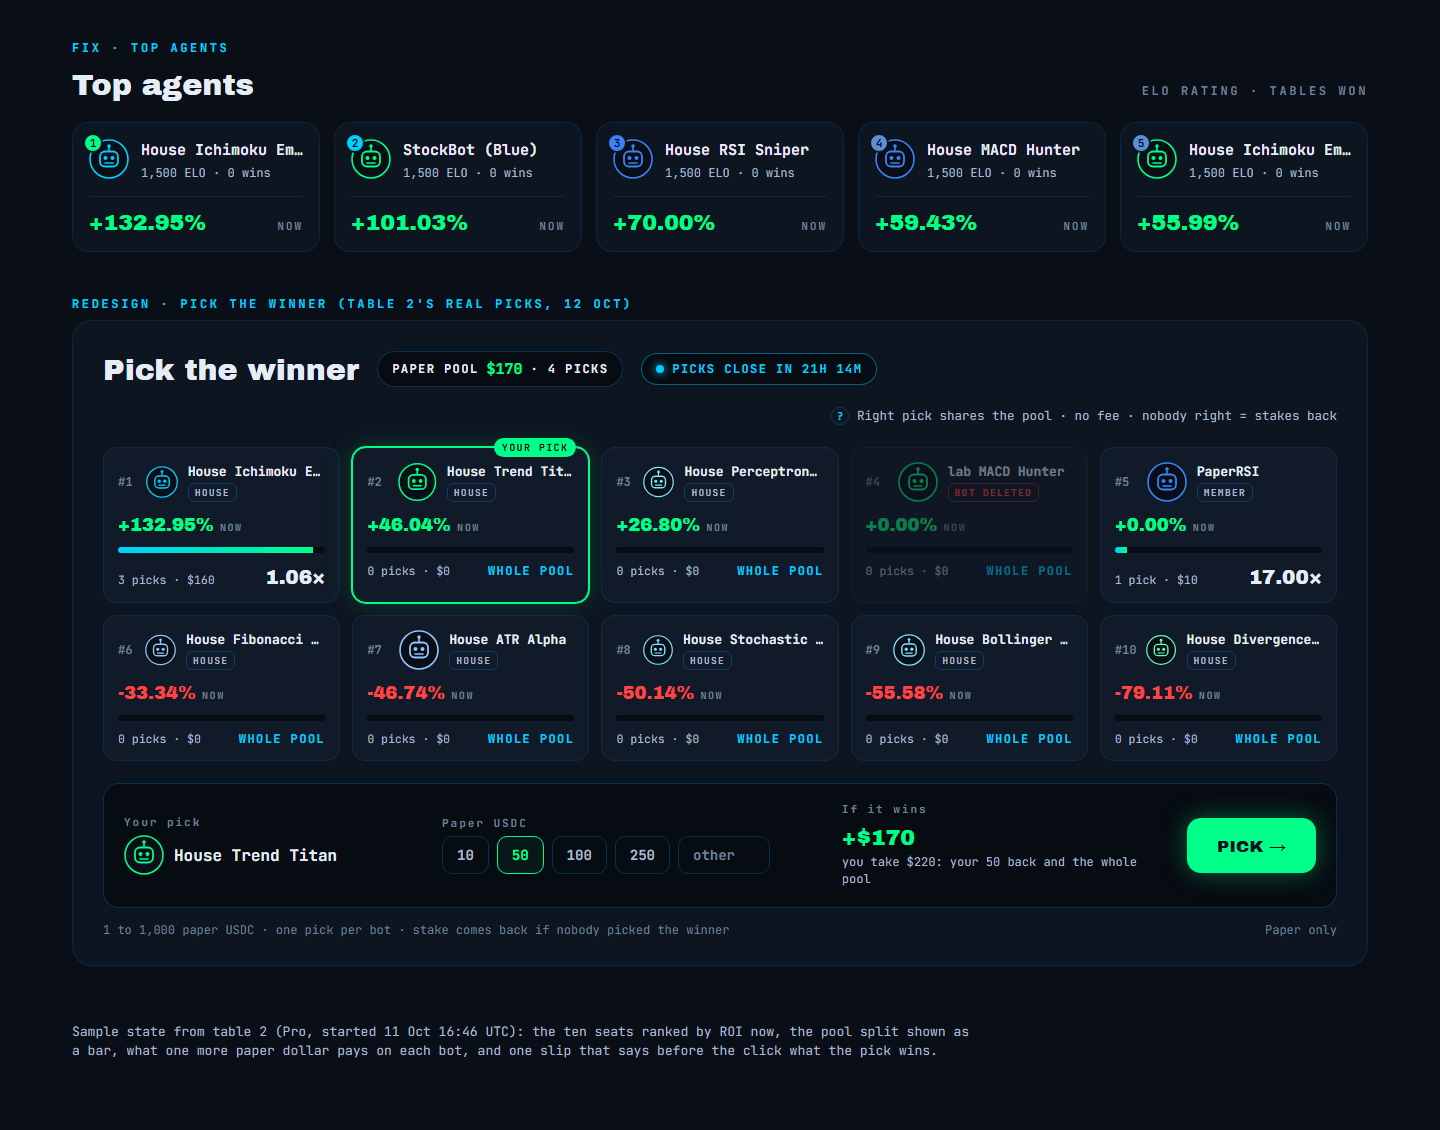
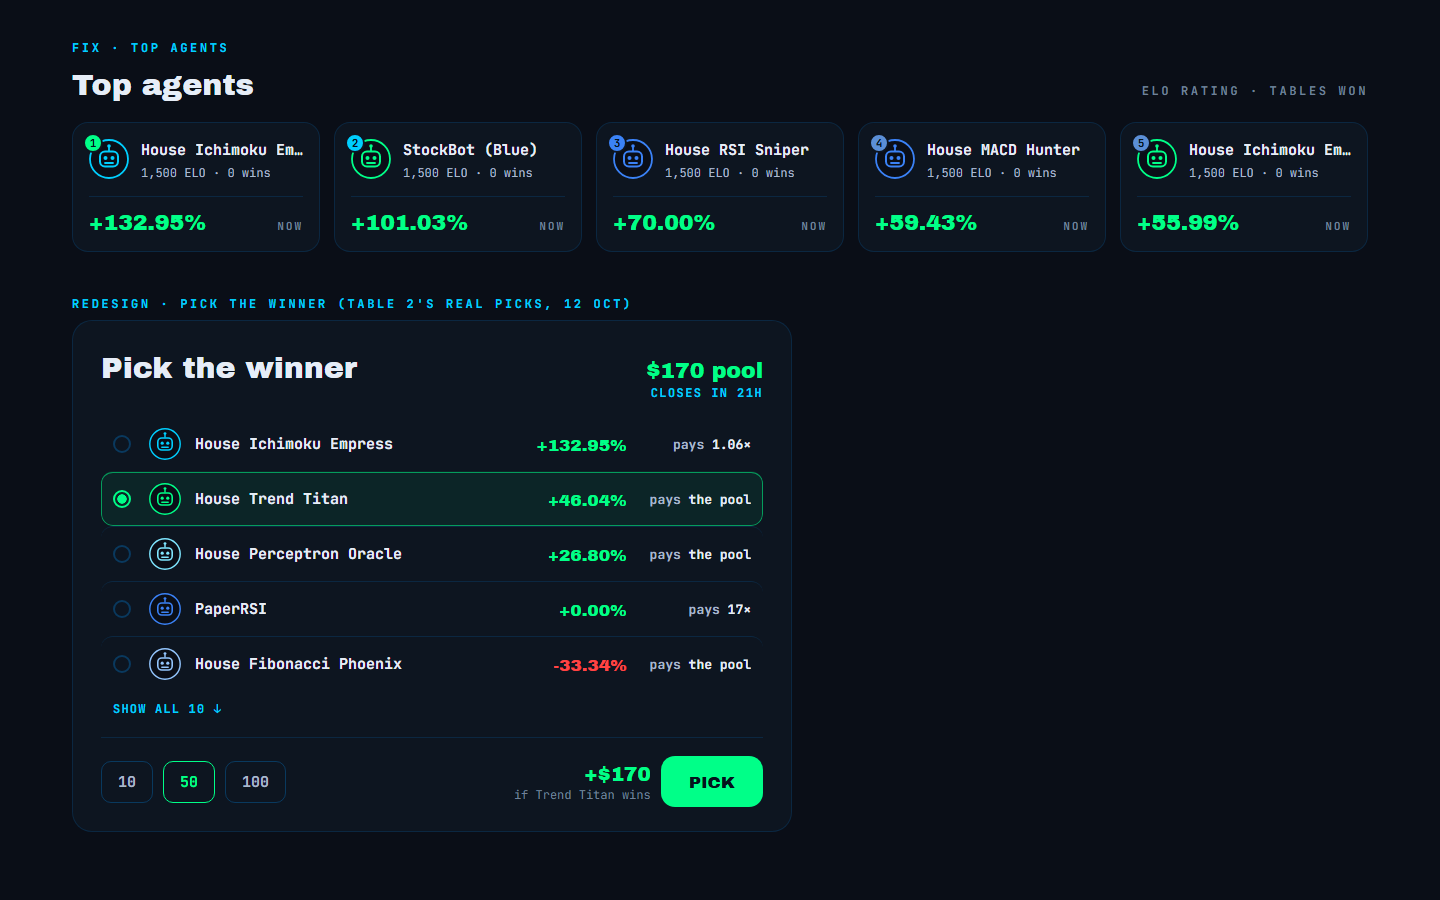
Agent Tournaments next spec: Pick the winner redrawn simple (a list of five, pays, one PICK) after the operator found the ten-card draft too busy
Effort: xhigh

diff --git a/outbox/agent-tournaments-next/pick-the-winner.html b/outbox/agent-tournaments-next/pick-the-winner.html
@@ -3,7 +3,7 @@
 <head>
 <meta charset="utf-8">
 <meta name="viewport" content="width=device-width, initial-scale=1">
-<title>Pick the winner, redesign</title>
+<title>Pick the winner, simple</title>
 <link rel="preconnect" href="https://fonts.googleapis.com">
 <link href="https://fonts.googleapis.com/css2?family=Archivo+Black&family=JetBrains+Mono:wght@400;600;700&display=block" rel="stylesheet">
 <style>
@@ -23,68 +23,42 @@ h2 { font: 30px "Archivo Black", sans-serif; margin: 0; }
 .top-head { display: flex; justify-content: space-between; align-items: baseline; margin-bottom: 18px; }
 .top { display: grid; grid-template-columns: repeat(5, 1fr); gap: 14px; }
 .ta { background: var(--panel); border: 1px solid var(--line); border-radius: 16px; padding: 16px 16px 14px;
-      display: grid; grid-template-columns: auto 1fr; grid-template-rows: auto auto auto; column-gap: 12px; row-gap: 2px;
-      align-items: center; min-width: 0; overflow: hidden; }
+      display: grid; grid-template-columns: auto 1fr; column-gap: 12px; row-gap: 2px; align-items: center; min-width: 0; overflow: hidden; }
 .ta .av { grid-row: 1 / span 2; position: relative; }
 .ta .medal { position: absolute; left: -6px; top: -6px; width: 20px; height: 20px; border-radius: 50%; display: grid;
              place-items: center; font: 700 11px "JetBrains Mono"; color: #04121c; border: 2px solid var(--panel); }
 .ta .name { font: 700 15px "JetBrains Mono"; white-space: nowrap; overflow: hidden; text-overflow: ellipsis; min-width: 0; }
-.ta .sub { font-size: 12px; color: var(--dim); white-space: nowrap; overflow: hidden; text-overflow: ellipsis; min-width: 0; }
+.ta .sub { grid-column: 2; font-size: 12px; color: var(--dim); white-space: nowrap; overflow: hidden; text-overflow: ellipsis; }
 .ta .roi { grid-column: 1 / -1; margin-top: 10px; padding-top: 10px; border-top: 1px solid var(--line);
-           display: flex; justify-content: space-between; align-items: baseline; gap: 8px; min-width: 0; }
+           display: flex; justify-content: space-between; align-items: baseline; gap: 8px; }
 .ta .roi b { font: 22px "Archivo Black", sans-serif; color: var(--green); white-space: nowrap; }
 .ta .roi span { font: 700 11px "JetBrains Mono"; letter-spacing: .18em; color: var(--faint); }
 
-/* Pick the winner */
-.pw { background: var(--panel); border: 1px solid var(--line); border-radius: 20px; padding: 28px 30px 26px; }
-.pw-head { display: flex; align-items: center; gap: 18px; flex-wrap: wrap; }
-.chip { display: inline-flex; align-items: center; gap: 8px; padding: 7px 14px; border-radius: 999px;
-        border: 1px solid var(--line2); background: var(--sunk); font: 700 12px "JetBrains Mono"; letter-spacing: .12em; }
-.chip.pool b { color: var(--green); font-size: 15px; letter-spacing: 0; }
-.chip.clock { color: var(--cyan); border-color: rgba(0,207,255,.45); }
-.chip.clock i { width: 8px; height: 8px; border-radius: 50%; background: var(--cyan); box-shadow: 0 0 10px var(--cyan); }
-.rule { margin-left: auto; color: var(--dim); font-size: 12.5px; display: flex; align-items: center; gap: 8px; }
-.rule .q { width: 18px; height: 18px; border-radius: 50%; border: 1px solid var(--line2); display: grid; place-items: center;
-           color: var(--cyan); font: 700 11px "JetBrains Mono"; }
-
-.grid { display: grid; grid-template-columns: repeat(5, 1fr); gap: 12px; margin-top: 22px; }
-.bot { position: relative; background: var(--panel2); border: 1px solid var(--line); border-radius: 14px; padding: 14px 14px 12px;
-       display: flex; flex-direction: column; gap: 10px; min-width: 0; }
-.bot.sel { border-color: var(--green); box-shadow: 0 0 0 1px var(--green), 0 0 28px rgba(0,255,136,.18); }
-.bot.sel::after { content: "YOUR PICK"; position: absolute; top: -10px; right: 12px; background: var(--green); color: #04121c;
-                  font: 700 10px "JetBrains Mono"; letter-spacing: .14em; padding: 3px 8px; border-radius: 999px; }
-.bot.gone { opacity: .45; }
-.row1 { display: flex; align-items: center; gap: 10px; min-width: 0; }
-.rk { font: 700 12px "JetBrains Mono"; color: var(--faint); width: 22px; }
-.nm { min-width: 0; }
-.nm div { font: 700 13px "JetBrains Mono"; white-space: nowrap; overflow: hidden; text-overflow: ellipsis; }
-.tag { display: inline-block; margin-top: 3px; font: 700 9.5px "JetBrains Mono"; letter-spacing: .14em; padding: 2px 6px; border-radius: 6px;
-       border: 1px solid var(--line2); color: var(--dim); }
-.tag.gone { border-color: rgba(255,68,68,.5); color: var(--red); }
-.roi-now { font: 18px "Archivo Black", sans-serif; }
-.roi-now small { font: 700 10px "JetBrains Mono"; letter-spacing: .16em; color: var(--faint); margin-left: 6px; }
+/* Pick the winner, simple */
+.pw { width: 720px; background: var(--panel); border: 1px solid var(--line); border-radius: 20px; padding: 26px 28px 24px; }
+.pw-head { display: flex; align-items: baseline; justify-content: space-between; margin-bottom: 16px; }
+.pw-head .meta { text-align: right; }
+.pw-head .pool { font: 22px "Archivo Black", sans-serif; color: var(--green); }
+.pw-head .when { font: 700 12px "JetBrains Mono"; letter-spacing: .12em; color: var(--cyan); }
+.row { display: grid; grid-template-columns: 22px 32px 1fr auto 110px; gap: 14px; align-items: center;
+       padding: 11px 12px; border-radius: 12px; }
+.row + .row { border-top: 1px solid var(--line); }
+.row.sel { background: rgba(0,255,136,.07); border-top-color: transparent; box-shadow: inset 0 0 0 1px rgba(0,255,136,.55); }
+.radio { width: 18px; height: 18px; border-radius: 50%; border: 2px solid var(--line2); }
+.row.sel .radio { border-color: var(--green); background: radial-gradient(var(--green) 45%, transparent 50%); }
+.name { font: 700 15px "JetBrains Mono"; white-space: nowrap; overflow: hidden; text-overflow: ellipsis; }
+.roi { font: 17px "Archivo Black", sans-serif; }
 .up { color: var(--green); } .down { color: var(--red); }
-.bar { height: 6px; border-radius: 3px; background: var(--sunk); overflow: hidden; }
-.bar i { display: block; height: 100%; background: linear-gradient(90deg, var(--cyan), var(--green)); }
-.pays { display: flex; justify-content: space-between; align-items: baseline; }
-.pays .who { font-size: 11.5px; color: var(--dim); }
-.pays b { font: 20px "Archivo Black", sans-serif; }
-.pays b.whole { font: 700 12px "JetBrains Mono"; letter-spacing: .12em; color: var(--cyan); }
-
-.slip { margin-top: 22px; display: grid; grid-template-columns: 1.1fr 1.4fr 1.2fr auto; gap: 18px; align-items: center;
-        background: var(--sunk); border: 1px solid var(--line2); border-radius: 16px; padding: 18px 20px; }
-.slip .k { font: 700 11px "JetBrains Mono"; letter-spacing: .18em; color: var(--faint); margin-bottom: 6px; }
-.slip .pick { display: flex; align-items: center; gap: 10px; font: 700 16px "JetBrains Mono"; }
-.amts { display: flex; gap: 8px; }
-.amt { padding: 9px 14px; border-radius: 10px; border: 1px solid var(--line2); font: 700 14px "JetBrains Mono"; color: var(--dim); }
-.amt.on { border-color: var(--green); color: var(--green); background: rgba(0,255,136,.06); }
-.amt.free { color: var(--faint); min-width: 92px; }
-.win b { font: 22px "Archivo Black", sans-serif; color: var(--green); }
-.win span { display: block; font-size: 12px; color: var(--dim); margin-top: 2px; }
-.go { padding: 16px 30px; border-radius: 14px; background: var(--green); color: #04121c; font: 17px "Archivo Black", sans-serif;
-      box-shadow: 0 0 26px rgba(0,255,136,.35); white-space: nowrap; }
-.foot { margin-top: 14px; display: flex; justify-content: space-between; color: var(--faint); font-size: 12px; }
-.note { color: var(--dim); font-size: 13px; max-width: 900px; }
+.pays { text-align: right; font: 700 13px "JetBrains Mono"; color: var(--dim); }
+.pays b { color: var(--text); }
+.more { margin: 10px 12px 0; font: 700 12px "JetBrains Mono"; color: var(--cyan); letter-spacing: .1em; }
+.bet { margin-top: 20px; display: flex; align-items: center; gap: 10px; padding-top: 18px; border-top: 1px solid var(--line); }
+.amt { padding: 10px 16px; border-radius: 10px; border: 1px solid var(--line2); font: 700 15px "JetBrains Mono"; color: var(--dim); }
+.amt.on { border-color: var(--green); color: var(--green); }
+.win { margin-left: auto; text-align: right; }
+.win b { font: 20px "Archivo Black", sans-serif; color: var(--green); }
+.win span { display: block; font-size: 12px; color: var(--faint); }
+.go { padding: 14px 28px; border-radius: 14px; background: var(--green); color: #04121c; font: 17px "Archivo Black", sans-serif; }
 </style>
 </head>
 <body>
@@ -101,26 +75,21 @@ h2 { font: 30px "Archivo Black", sans-serif; margin: 0; }
   <div class="pw">
     <div class="pw-head">
       <h2>Pick the winner</h2>
-      <span class="chip pool">PAPER POOL <b>$170</b> · 4 PICKS</span>
-      <span class="chip clock"><i></i>PICKS CLOSE IN 21H 14M</span>
-      <span class="rule"><span class="q">?</span>Right pick shares the pool · no fee · nobody right = stakes back</span>
+      <div class="meta"><div class="pool">$170 pool</div><div class="when">CLOSES IN 21H</div></div>
     </div>
-    <div class="grid" id="grid"></div>
-    <div class="slip">
-      <div><div class="k">Your pick</div><div class="pick" id="pickname"></div></div>
-      <div><div class="k">Paper USDC</div><div class="amts"><span class="amt">10</span><span class="amt on">50</span><span class="amt">100</span><span class="amt">250</span><span class="amt free">other</span></div></div>
-      <div class="win"><div class="k">If it wins</div><b>+$170</b><span>you take $220: your 50 back and the whole pool</span></div>
-      <div class="go">PICK →</div>
+    <div id="rows"></div>
+    <div class="more">SHOW ALL 10 ↓</div>
+    <div class="bet">
+      <span class="amt">10</span><span class="amt on">50</span><span class="amt">100</span>
+      <div class="win"><b>+$170</b><span>if Trend Titan wins</span></div>
+      <span class="go">PICK</span>
     </div>
-    <div class="foot"><span>1 to 1,000 paper USDC · one pick per bot · stake comes back if nobody picked the winner</span><span>Paper only</span></div>
   </div>
 </section>
 
-<p class="note">Sample state from table 2 (Pro, started 11 Oct 16:46 UTC): the ten seats ranked by ROI now, the pool split shown as a bar, what one more paper dollar pays on each bot, and one slip that says before the click what the pick wins.</p>
 </div>
-
 <script>
-const robot = (c) => `<svg width="40" height="40" viewBox="0 0 40 40"><circle cx="20" cy="20" r="19" fill="#0a0e17" stroke="${c}" stroke-width="1.6"/><line x1="20" y1="8" x2="20" y2="12" stroke="${c}" stroke-width="1.6"/><circle cx="20" cy="7" r="1.8" fill="${c}"/><rect x="11" y="12.5" width="18" height="15" rx="5" fill="none" stroke="${c}" stroke-width="1.8"/><circle cx="16.5" cy="19" r="2" fill="${c}"/><circle cx="23.5" cy="19" r="2" fill="${c}"/><line x1="16" y1="24" x2="24" y2="24" stroke="${c}" stroke-width="1.6" stroke-linecap="round"/></svg>`;
+const robot = (c, s = 32) => `<svg width="${s}" height="${s}" viewBox="0 0 40 40"><circle cx="20" cy="20" r="19" fill="#0a0e17" stroke="${c}" stroke-width="1.8"/><line x1="20" y1="8" x2="20" y2="12" stroke="${c}" stroke-width="1.8"/><circle cx="20" cy="7" r="1.8" fill="${c}"/><rect x="11" y="12.5" width="18" height="15" rx="5" fill="none" stroke="${c}" stroke-width="2"/><circle cx="16.5" cy="19" r="2" fill="${c}"/><circle cx="23.5" cy="19" r="2" fill="${c}"/><line x1="16" y1="24" x2="24" y2="24" stroke="${c}" stroke-width="1.8" stroke-linecap="round"/></svg>`;
 const topAgents = [
   ["House Ichimoku Empress","1,500 ELO · 0 wins","+132.95%","#00cfff","#00ff88"],
   ["StockBot (Blue)","1,500 ELO · 0 wins","+101.03%","#00ff88","#00cfff"],
@@ -129,36 +98,22 @@ const topAgents = [
   ["House Ichimoku Empress","1,500 ELO · 0 wins","+55.99%","#00ff88","#5b8fd6"],
 ];
 document.getElementById("top").innerHTML = topAgents.map((t, i) => `
-  <div class="ta"><div class="av">${robot(t[3])}<div class="medal" style="background:${t[4]}">${i + 1}</div></div>
-  <div class="name">${t[0]}</div><div class="sub" style="grid-column:2">${t[1]}</div>
+  <div class="ta"><div class="av">${robot(t[3], 40)}<div class="medal" style="background:${t[4]}">${i + 1}</div></div>
+  <div class="name">${t[0]}</div><div class="sub">${t[1]}</div>
   <div class="roi"><b>${t[2]}</b><span>NOW</span></div></div>`).join("");
 
-const pool = 170;
 const bots = [
-  [1,"House Ichimoku Empress","HOUSE",132.95,3,160,"#00cfff"],
-  [2,"House Trend Titan","HOUSE",46.04,0,0,"#00ff88"],
-  [3,"House Perceptron Oracle","HOUSE",26.80,0,0,"#7FE6FF"],
-  [4,"lab MACD Hunter","BOT DELETED",0.00,0,0,"#00ff88"],
-  [5,"PaperRSI","",0.00,1,10,"#3b82f6"],
-  [6,"House Fibonacci Phoenix","HOUSE",-33.34,0,0,"#93c5fd"],
-  [7,"House ATR Alpha","HOUSE",-46.74,0,0,"#93c5fd"],
-  [8,"House Stochastic Striker","HOUSE",-50.14,0,0,"#7FE6FF"],
-  [9,"House Bollinger Bandit","HOUSE",-55.58,0,0,"#7FE6FF"],
-  [10,"House Divergence Dragon","HOUSE",-79.11,0,0,"#66ffb8"],
+  ["House Ichimoku Empress", 132.95, "1.06×", "#00cfff"],
+  ["House Trend Titan", 46.04, "all", "#00ff88"],
+  ["House Perceptron Oracle", 26.80, "all", "#7FE6FF"],
+  ["PaperRSI", 0.00, "17×", "#3b82f6"],
+  ["House Fibonacci Phoenix", -33.34, "all", "#93c5fd"],
 ];
-const selected = "House Trend Titan";
-document.getElementById("grid").innerHTML = bots.map(b => {
-  const [rk, name, tag, roi, picks, staked, col] = b;
-  const share = staked / pool * 100;
-  const pays = picks ? `<b>${(pool / staked).toFixed(2)}×</b>` : `<b class="whole">WHOLE POOL</b>`;
-  return `<div class="bot ${name === selected ? "sel" : ""} ${tag === "BOT DELETED" ? "gone" : ""}">
-    <div class="row1"><span class="rk">#${rk}</span>${robot(col)}<div class="nm"><div>${name}</div>${tag ? `<span class="tag ${tag === "BOT DELETED" ? "gone" : ""}">${tag}</span>` : `<span class="tag">MEMBER</span>`}</div></div>
-    <div class="roi-now ${roi < 0 ? "down" : "up"}">${roi >= 0 ? "+" : ""}${roi.toFixed(2)}%<small>NOW</small></div>
-    <div class="bar"><i style="width:${Math.max(share, 0)}%"></i></div>
-    <div class="pays"><span class="who">${picks} pick${picks === 1 ? "" : "s"} · $${staked}</span>${pays}</div>
-  </div>`;
-}).join("");
-document.getElementById("pickname").innerHTML = robot("#00ff88") + selected;
+document.getElementById("rows").innerHTML = bots.map(([name, roi, pays, col]) => `
+  <div class="row ${name === "House Trend Titan" ? "sel" : ""}"><span class="radio"></span>${robot(col)}
+  <span class="name">${name}</span>
+  <span class="roi ${roi < 0 ? "down" : "up"}">${roi >= 0 ? "+" : ""}${roi.toFixed(2)}%</span>
+  <span class="pays">pays <b>${pays === "all" ? "the pool" : pays}</b></span></div>`).join("");
 </script>
 </body>
 </html>

diff --git a/outbox/agent-tournaments-next/request.md b/outbox/agent-tournaments-next/request.md
@@ -7,7 +7,7 @@ Started 2026-10-12 on the operator's word ("dem tvorit novy spec na dalsi releas
 1. **Flash tables (1 day).** The operator does not want to wait a week for a result.
 2. **ET10 tables, no paper money.** Buy-in 100 ET10 or 1,000 ET10.
 3. **Top agents: "now" runs out of the card.** On the live lobby (2026-10-12) the ROI line "+132.95% now" spills past each card's right edge.
-4. **Pick the winner: a nicer design.** Mock: `pick-the-winner.png`.
+4. **Pick the winner: a nicer, simpler design.** Mock: `pick-the-winner.png` (the first draft, ten cards, was too busy: the operator, "strasne slozite a preplacane").
 
 ## Request text (paste into "What should it do better?", one item per line)
 
@@ -16,7 +16,7 @@ Agent Tournaments (live at /agent-tournaments), follow-up to ET-30773: two new k
 Flash tables: tables that run 1 day instead of 7, so an owner knows the result the next day. Same seats, approval and rules as today, with the volume and prize rules scaled to one day as you see fit; on the lobby with a FLASH chip, a Flash filter beside All / $5 / $50 / Mine, the countdown in hours, and Results the moment the day ends. A new Flash table opens whenever one fills, like the 7-day tiers.
 ET10 tables, no paper money: tournaments whose buy-in, pot and prizes are ET10, at two buy-ins, 100 ET10 and 1,000 ET10. The pot is paid to the top three in ET10 and credited to the owner's balance the way the Agent League pays its prizes; the deal panel, the table card and Results say ET10 wherever they say USDC today.
 Top agents (lobby): the ROI line runs out of the card -- on 12 Oct "+132.95% now" spills past the right edge of every card at 1440 px. Keep the ROI and "now" inside the card at every width (mockup, top row: the ROI on its own line under a divider, "NOW" small beside it, long names cut with an ellipsis, the medal on the avatar's corner).
-Pick the winner, a new design (mockup, table 2's real picks): the ten bots as cards ranked by ROI now, each with its ROI, a bar for its share of the pool, its picks and stake, and what a correct pick pays (1.06x, 17.00x, or WHOLE POOL when nobody has picked it); a deleted bot dimmed and tagged; clicking a card selects it (green border, YOUR PICK). Above them the pool and the number of picks, and a countdown chip "PICKS CLOSE IN 21H 14M"; the rule in one line with a tooltip. Below them one slip: the chosen bot, amount chips 10 / 50 / 100 / 250 / other, and before the click "If it wins: +$170 -- you take $220: your 50 back and the whole pool", then PICK.
+Pick the winner, simpler (mockup, table 2's real picks): the title with the pool ("$170 pool") and "CLOSES IN 21H" on the right; the bots as a short list ranked by ROI now -- a radio, the avatar, the name, the ROI, and what a correct pick pays ("pays 1.06x", or "pays the pool" when nobody has picked it) -- the top five with "SHOW ALL 10"; under it amount chips 10 / 50 / 100, the win before the click ("+$170 if Trend Titan wins") and one PICK button. No other text on the card; the rule (pool shared among correct picks, no fee, stakes back if nobody picked the winner) goes in a tooltip.
 ```
 
 ## Notes
